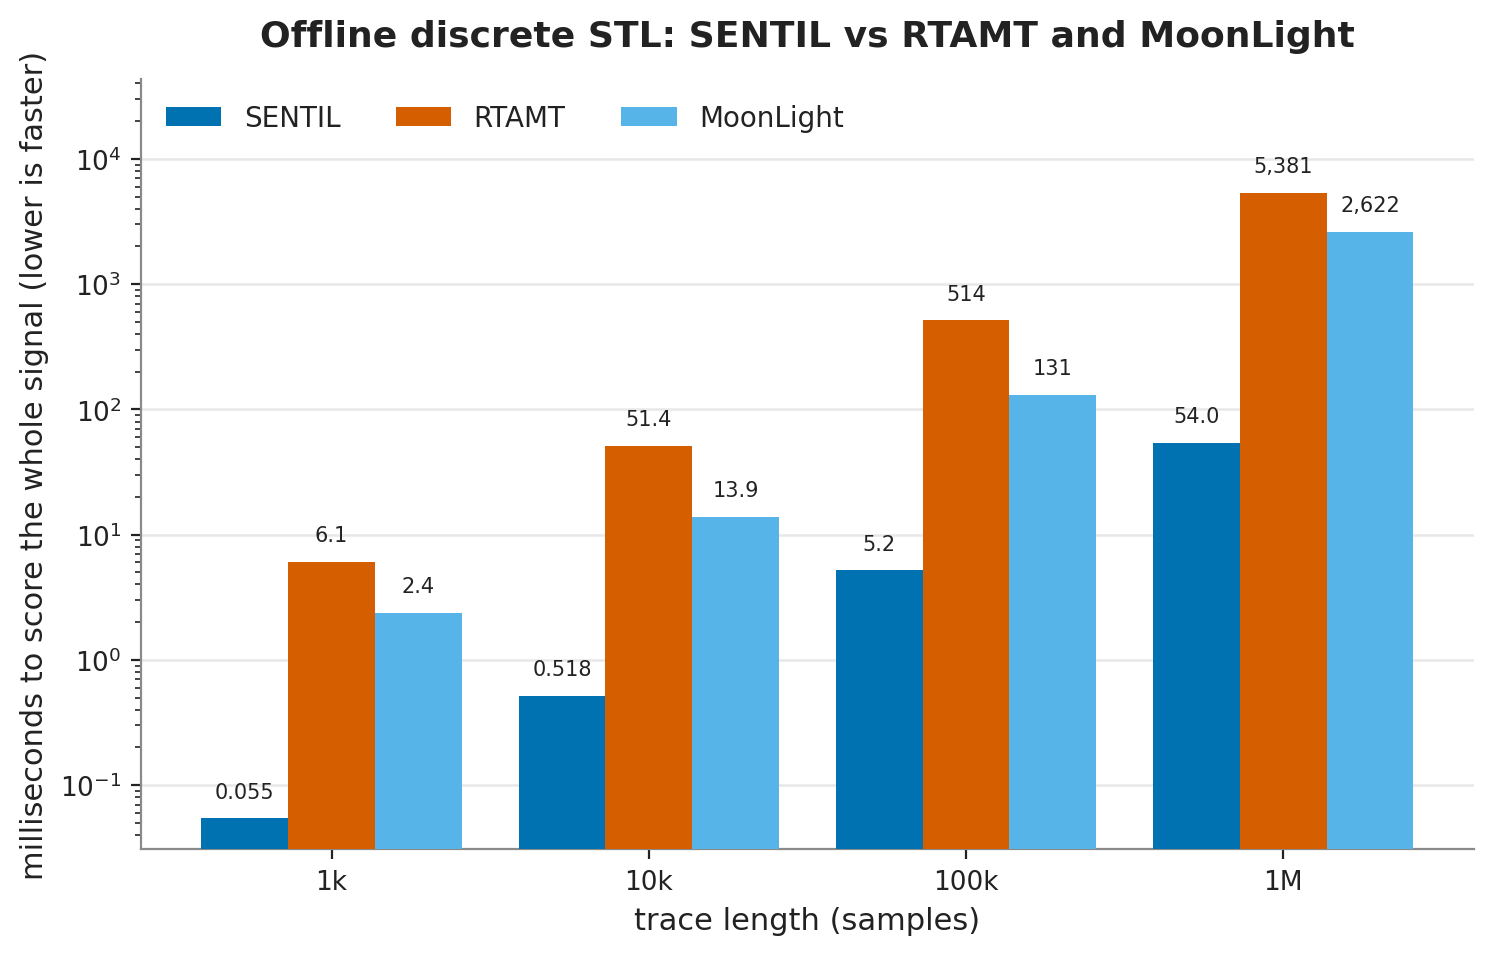
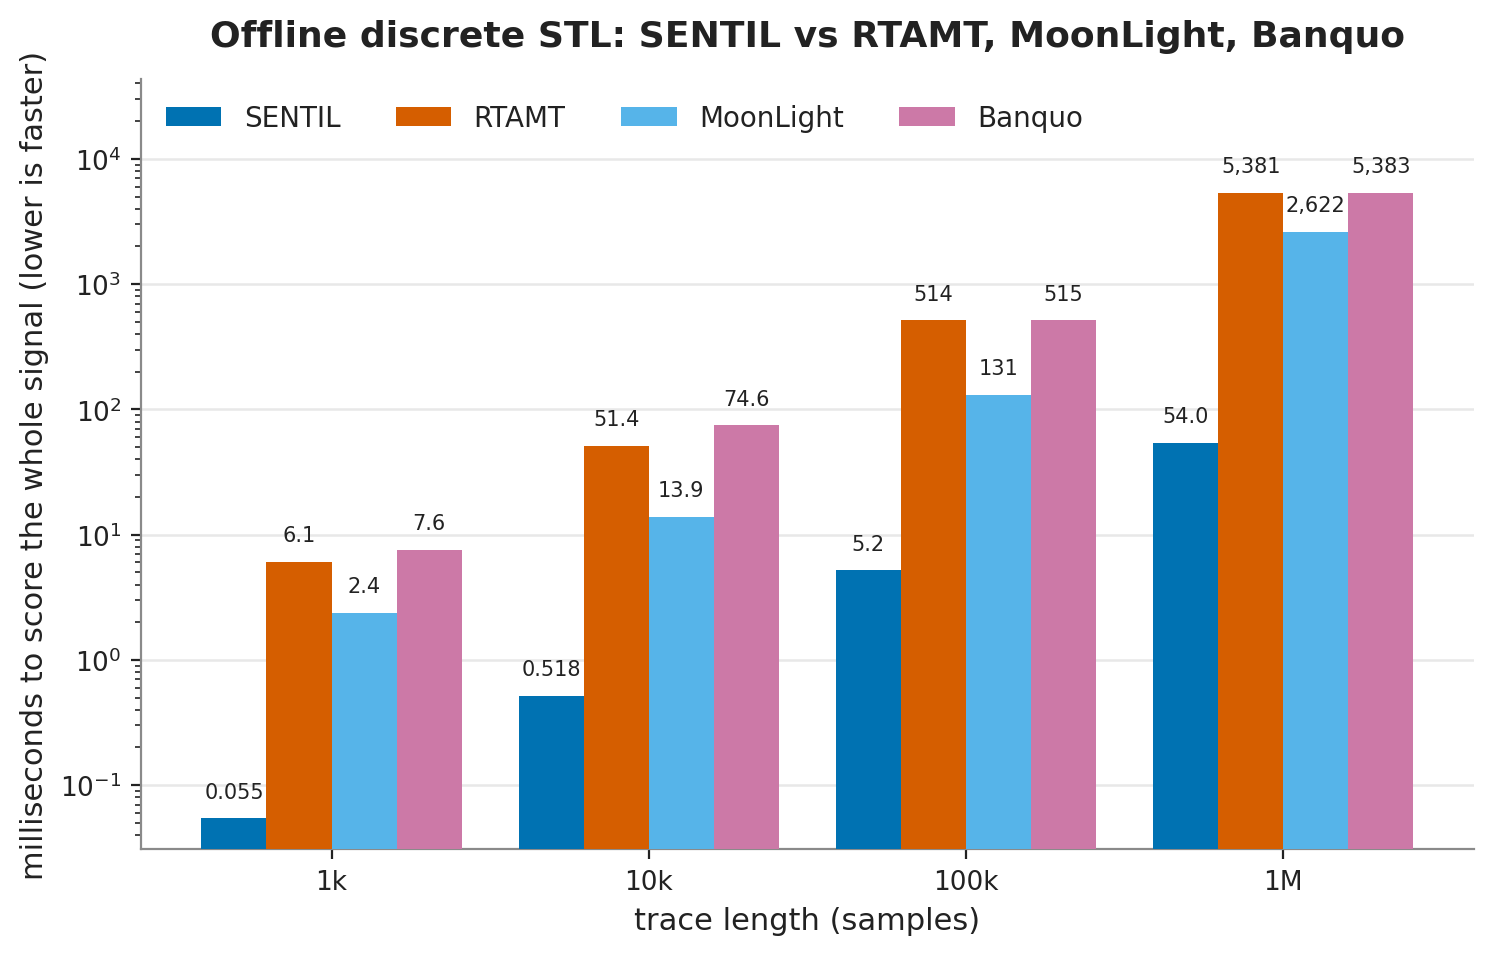
put banquo on the discrete chart, four tools now

diff --git a/benchmarks/runners/plot.py b/benchmarks/runners/plot.py
@@ -75,16 +75,20 @@ def bar_comparison(specs, sizes, ylabel, title, fname):
     save(fig, fname)
 
 def discrete_offline(records):
-    s, rt = _series(records, "sentil", "full_signal"), _series(records, "rtamt", "full_signal")
-    ml = _series(records, "moonlight", "full_signal")
+    s, rt = _series(records, "sentil", "rust", "full_signal"), _series(records, "rtamt", "python", "full_signal")
+    ml = _series(records, "moonlight", "java", "full_signal")
+    bq = _series(records, "banquo", "python", "full_signal")
     if not s or not rt:
         return
     sizes = sorted(set(s) & set(rt))
     specs = [("SENTIL", s, style.TOOL["sentil"]), ("RTAMT", rt, style.TOOL["rtamt"])]
     if ml:
         specs.append(("MoonLight", ml, style.TOOL["moonlight"]))
+    if bq:
+        specs.append(("Banquo", bq, style.TOOL["banquo"]))
+    names = ", ".join(label for label, _, _ in specs[1:])
     bar_comparison(specs, sizes, "milliseconds to score the whole signal (lower is faster)",
-                   "Offline discrete STL: SENTIL vs RTAMT and MoonLight", "discrete_offline.png")
+                   f"Offline discrete STL: SENTIL vs {names}", "discrete_offline.png")
 
 def dense_offline(records):
     s = _series(records, "sentil", "rust", "monitoring")

diff --git a/benchmarks/runners/style.py b/benchmarks/runners/style.py
@@ -19,6 +19,7 @@ TOOL = {
     "uppaal": _OKABE_ITO["purple"],
     "prism": _OKABE_ITO["green"],
     "moonlight": _OKABE_ITO["sky"],
+    "banquo": _OKABE_ITO["purple"],
 }
 
 CYCLE = [_OKABE_ITO[k] for k in ("blue", "vermillion", "green", "orange", "purple", "sky")]
